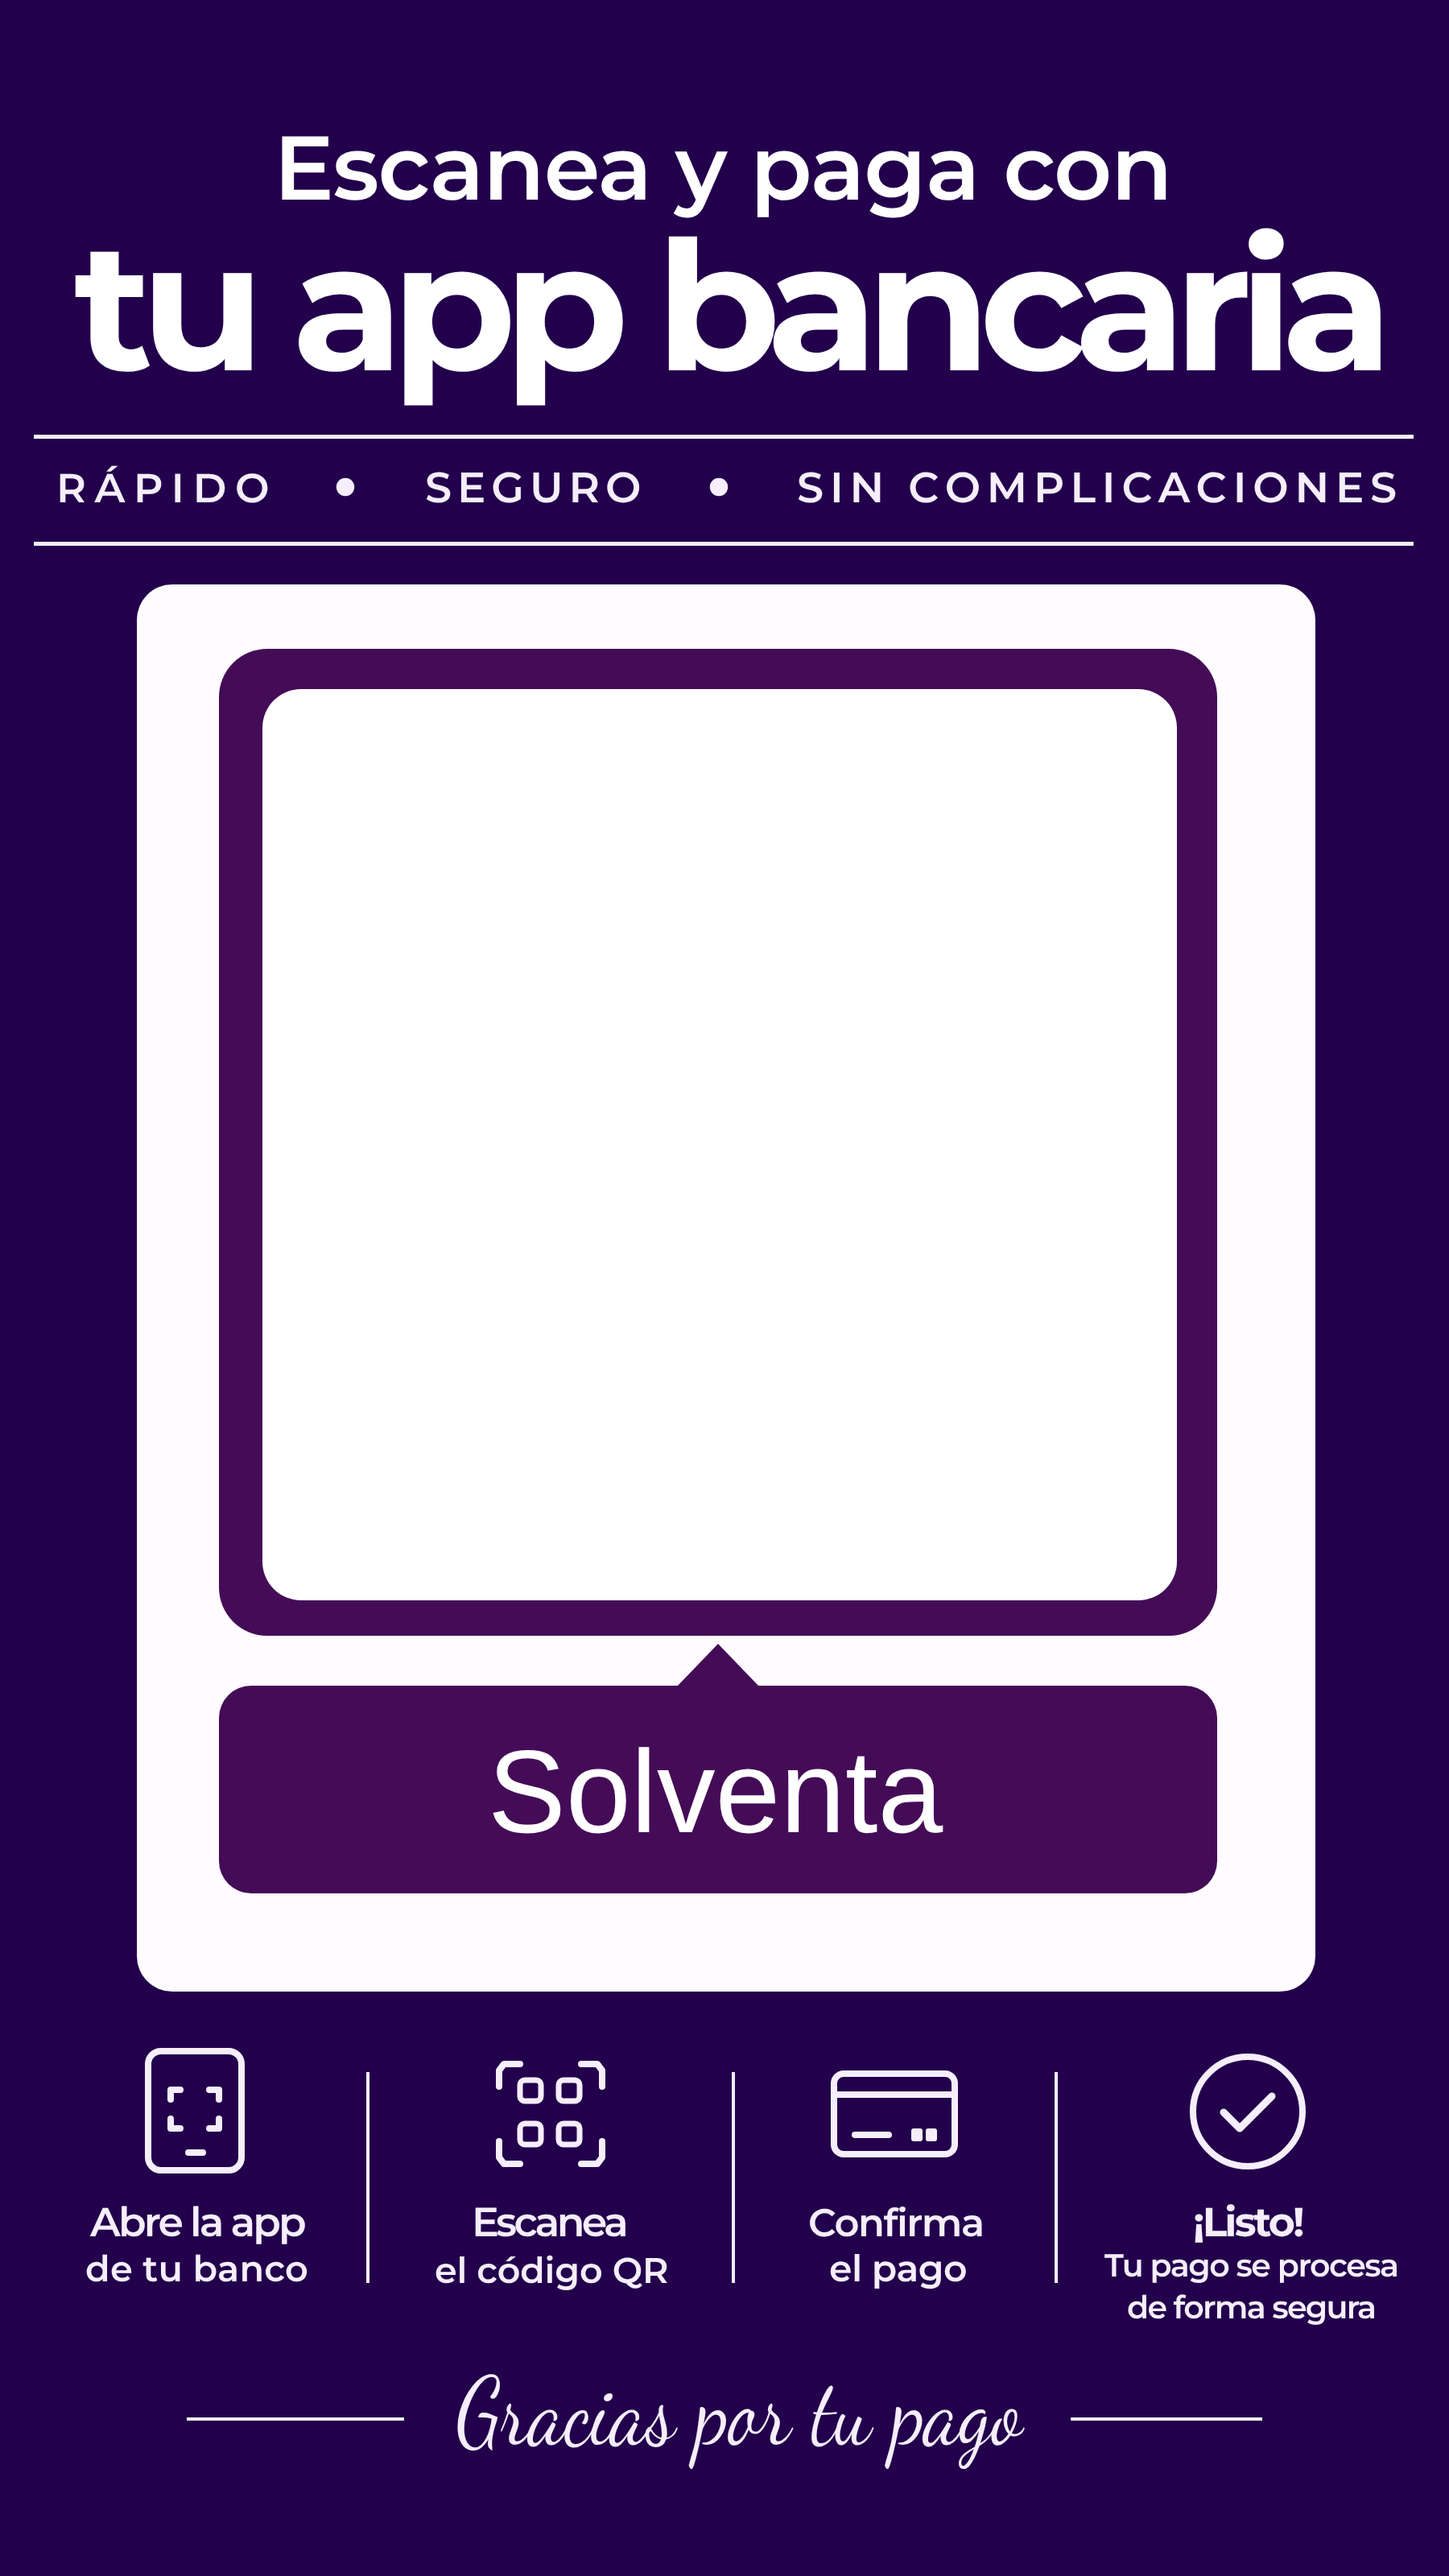
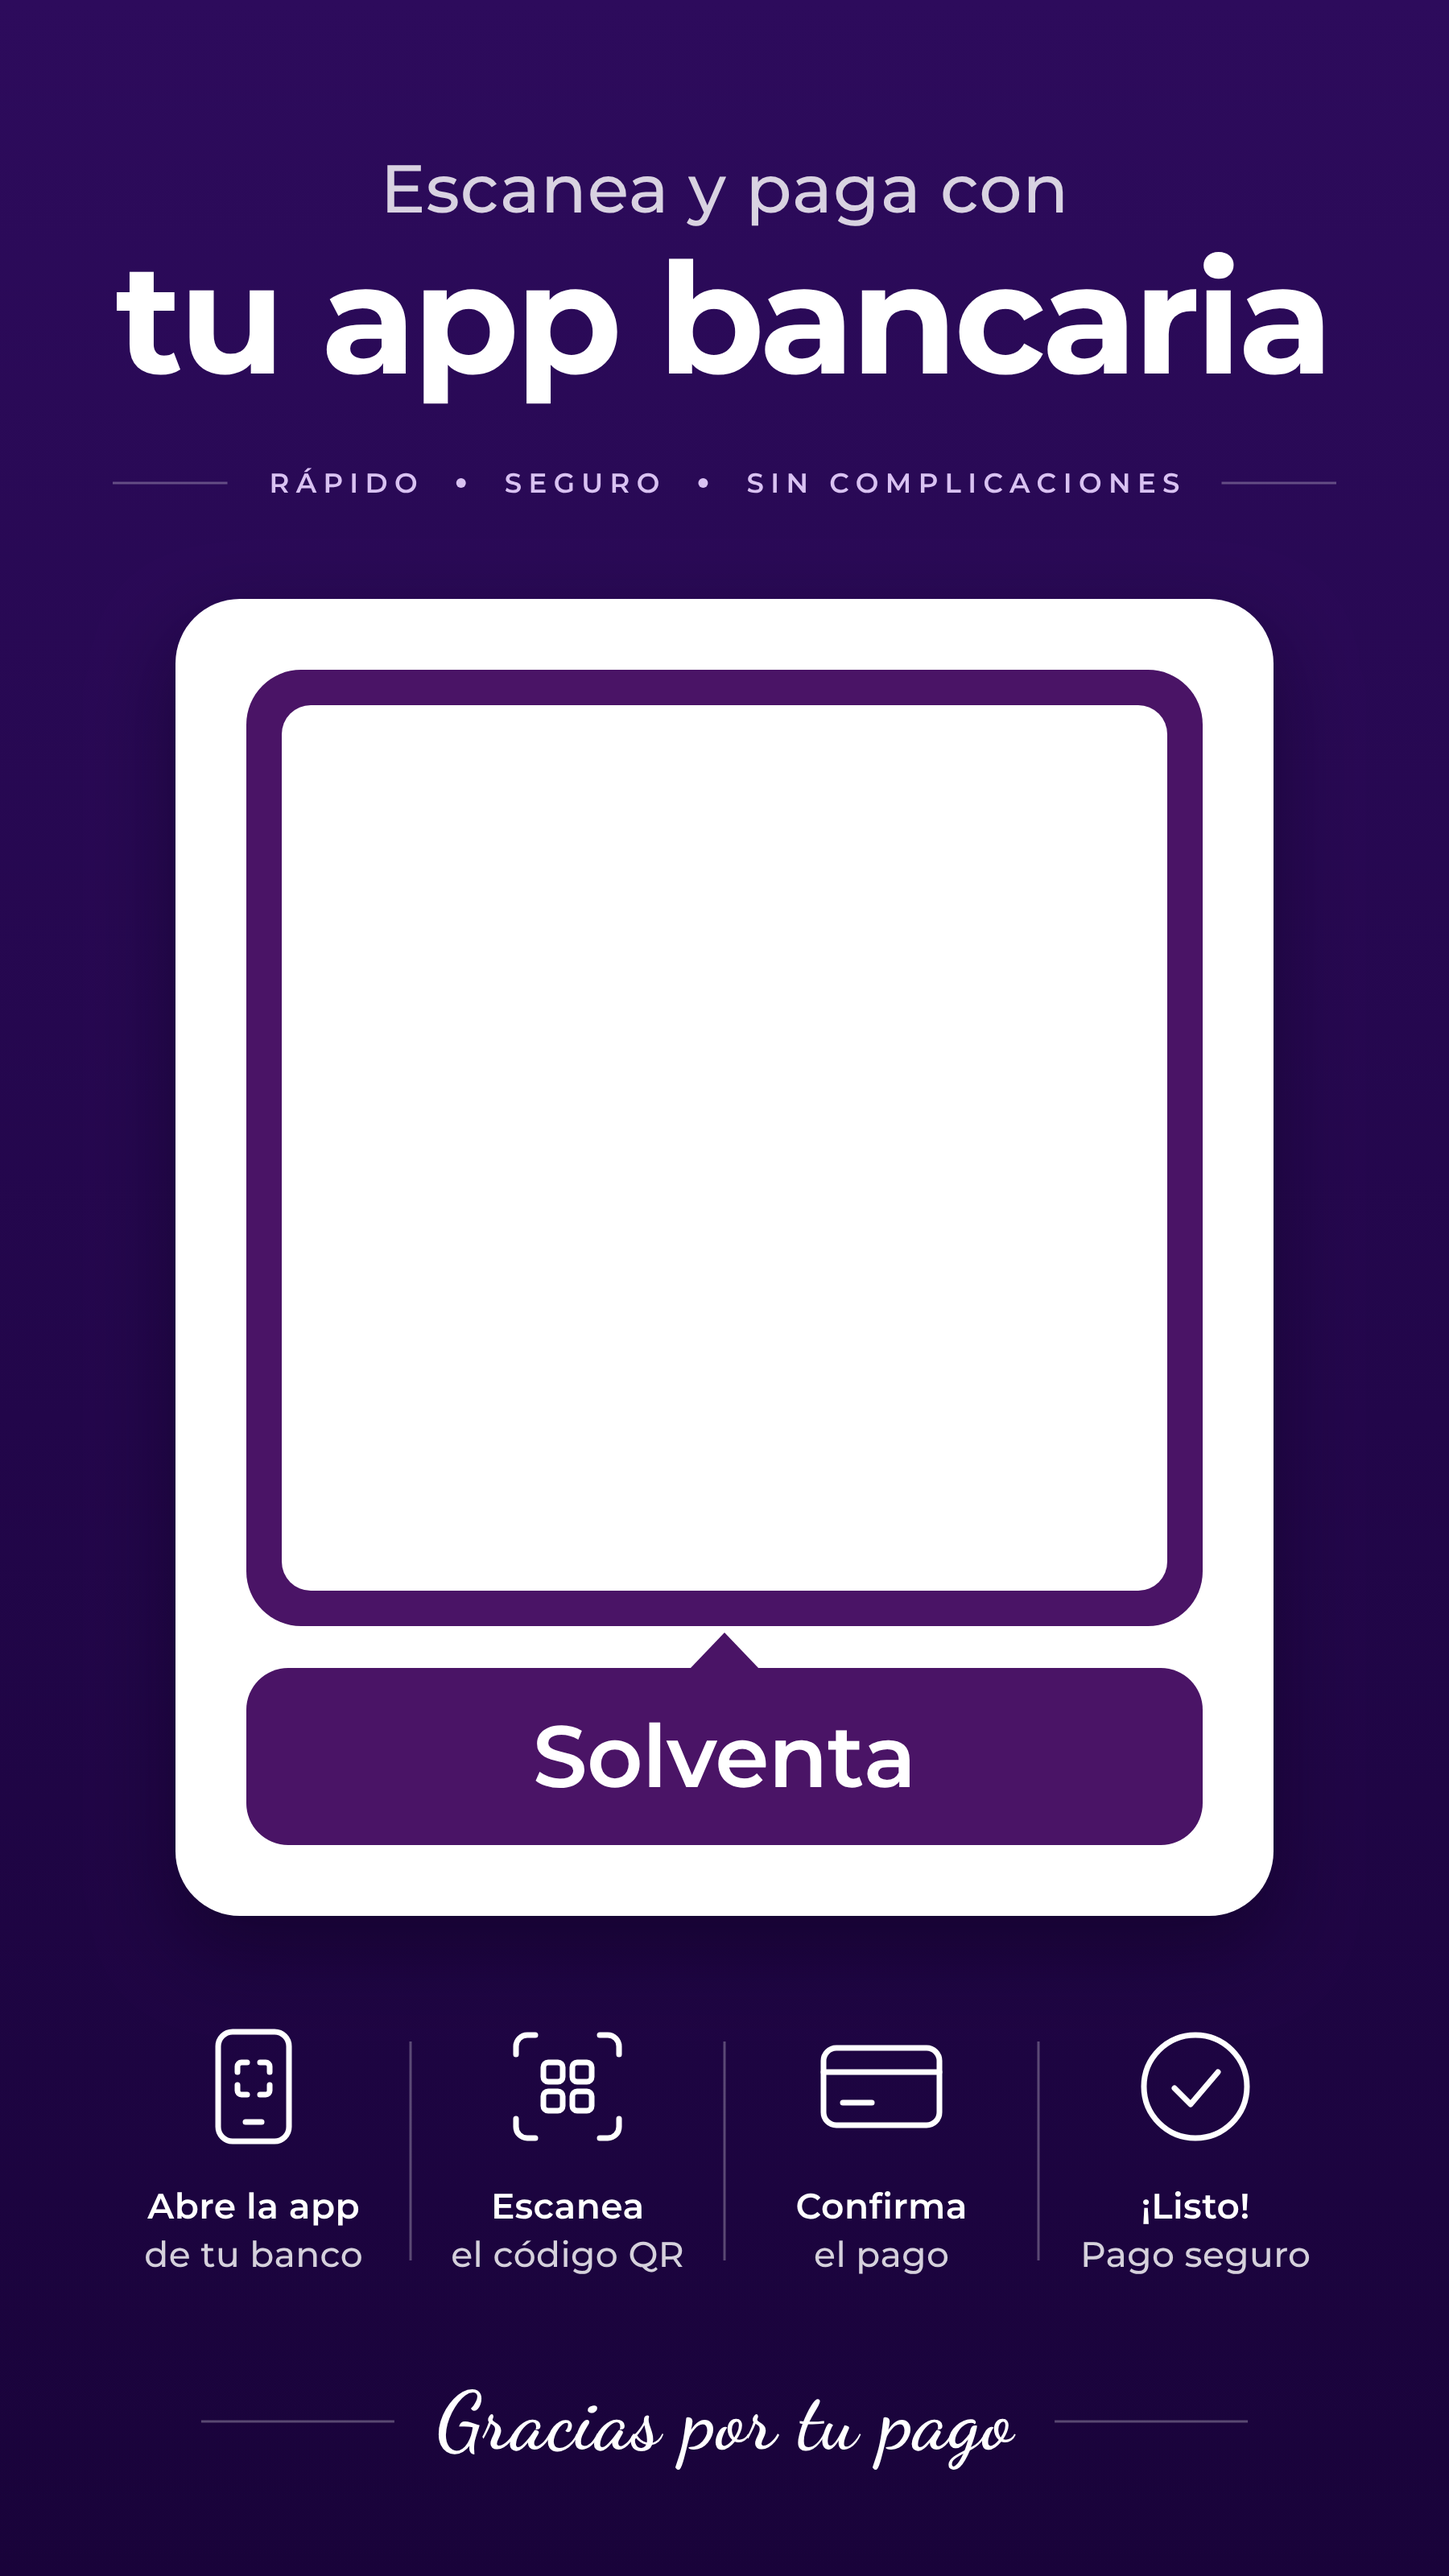
PWA: rediseño de la tarjeta del QR
Composición centrada con márgenes iguales, una sola familia tipográfica,
íconos del mismo trazo y columnas de pasos de igual ancho, degradado de
fondo y sombra bajo la tarjeta. La zona del QR se centra (AREA.left 187).

Claude-Session: https://claude.ai/code/session_01NtJDNa5PpmuubqtE2BsvKj

Changed region(s): [[0.0311, 0.0312, 0.9644, 0.9688], [0.7156, 0.8125, 0.7467, 0.875], [0.4978, 0.8125, 0.5289, 0.875]]

diff --git a/pwa/app.js b/pwa/app.js
@@ -7,10 +7,10 @@
   const byId = (id) => document.getElementById(id);
   const BASE_URL = 'data/codigo-base.txt';
   const ACCESS_URL = 'data/acceso.json';
-  // Plantilla redibujada en alta resolución (el doble de botcod-main/assets/plantilla-original.jpeg).
+  // Plantilla propia de la app, a 1800x3200 (el doble de las medidas de AREA).
   const TEMPLATE_URL = 'assets/plantilla-hd.png';
   const SCALE = 2;
-  const AREA = { left: 184, top: 450, width: 526, height: 526 };
+  const AREA = { left: 187, top: 450, width: 526, height: 526 };
   const MIN_AMOUNT = 50000;
   const MAX_AMOUNT = 3000000;
   const pending = new Set();
